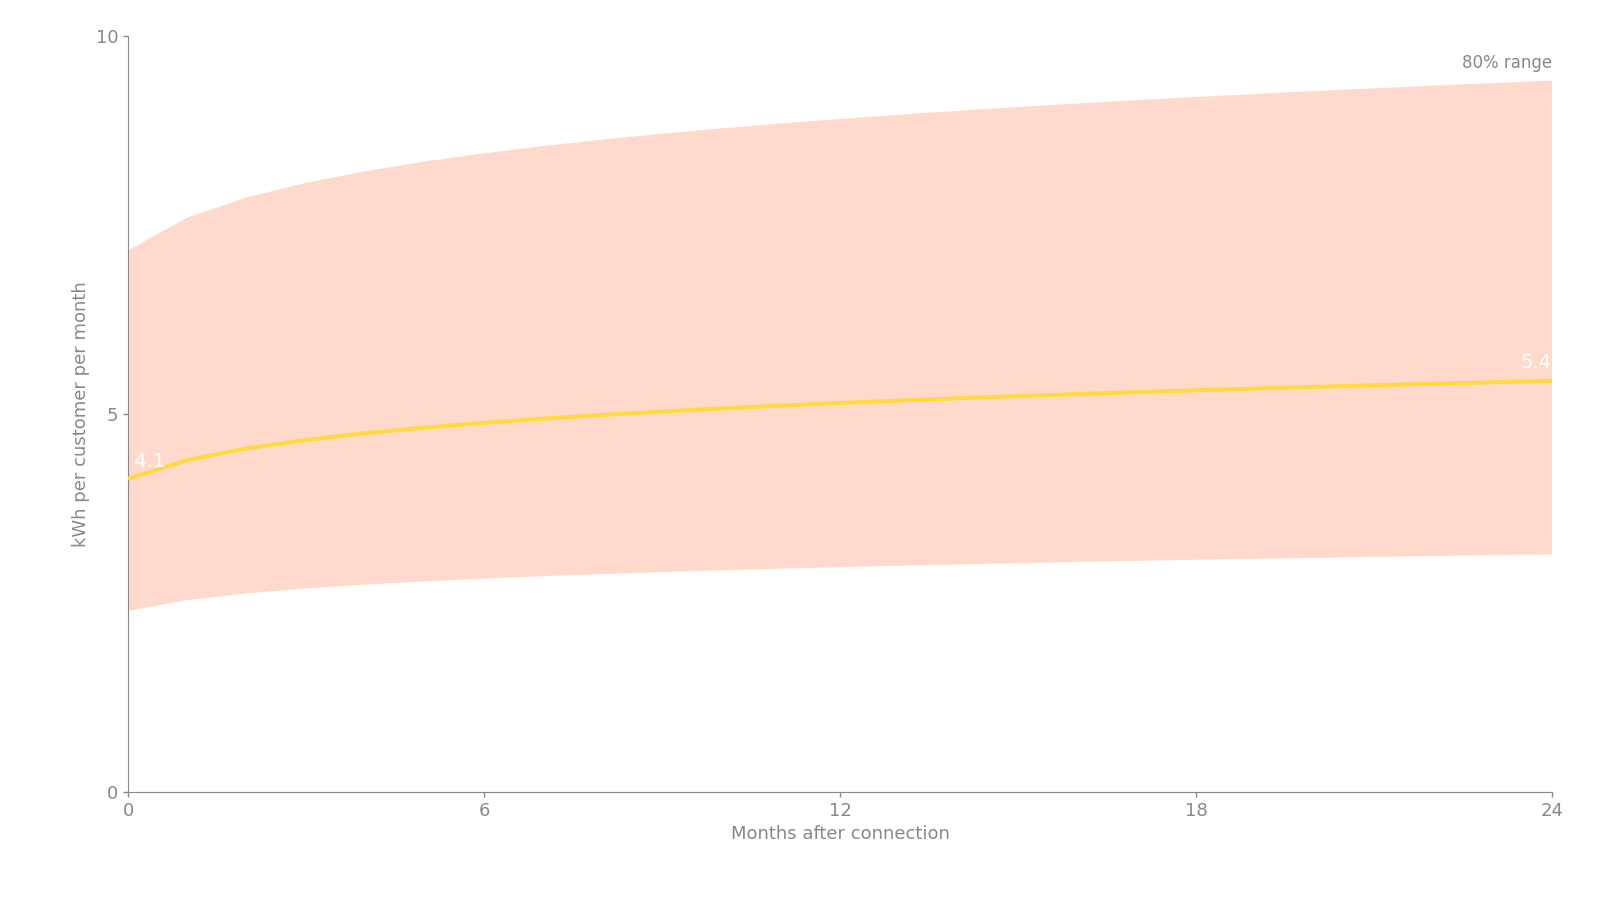
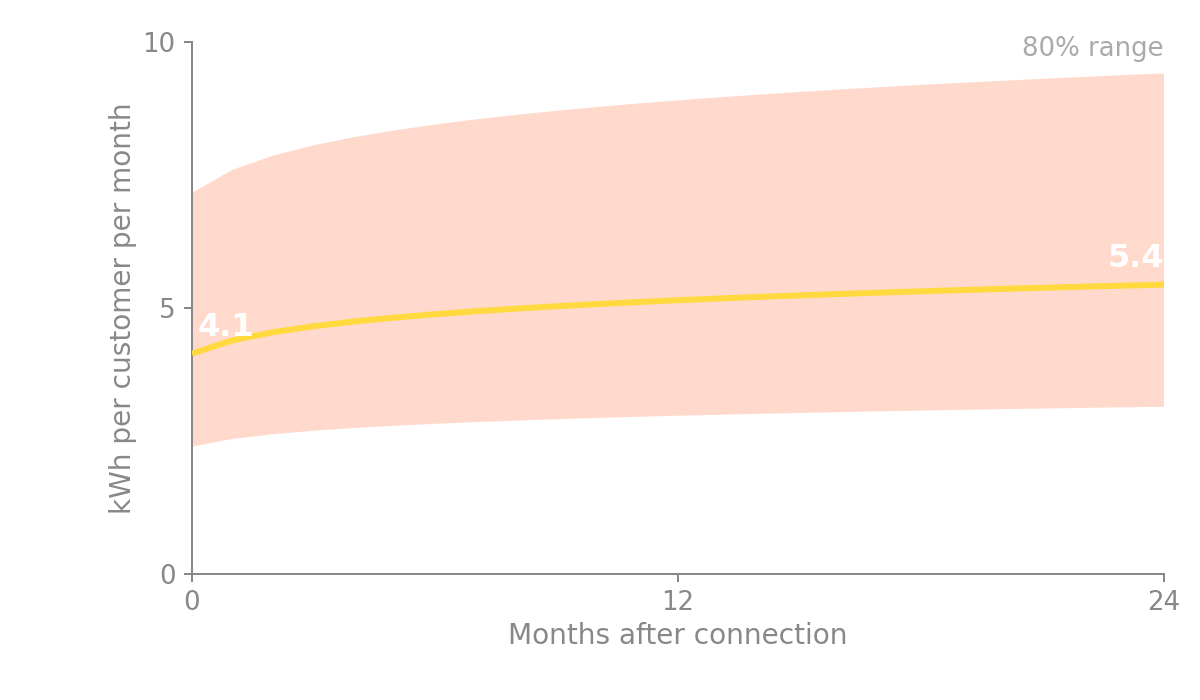
deck: larger chart labels

diff --git a/scripts/plot_growth_deck.py b/scripts/plot_growth_deck.py
@@ -16,9 +16,13 @@ from pawacast.model.growth import observed_curve
 
 ROOT = Path(__file__).resolve().parents[1]
 OUT = ROOT / "results"
-SUN, FLARE, MUTED = "#FFD93D", "#FF6B35", "#888888"
-W, H, DPI = 1600, 900, 100
+SUN, FLARE, MUTED, RANGE = "#FFD93D", "#FF6B35", "#888888", "#AAAAAA"
+W, H, DPI = 1200, 700, 100
 PX_TO_PT = 72.0 / DPI
+
+
+def px(n: float) -> float:
+    return n * PX_TO_PT
 
 
 def main():
@@ -29,7 +33,7 @@ def main():
     p50_24 = float(curve.loc[curve.month == 24, "p50"].iloc[0])
     p90_24 = float(curve.loc[curve.month == 24, "p90"].iloc[0])
 
-    plt.rcParams.update({"font.family": "sans-serif", "font.size": 13})
+    plt.rcParams.update({"font.family": "sans-serif", "font.size": px(26)})
     fig, ax = plt.subplots(figsize=(W / DPI, H / DPI), dpi=DPI)
     fig.patch.set_alpha(0.0)
     ax.set_facecolor("none")
@@ -38,42 +42,43 @@ def main():
         curve.month, curve.p10, curve.p90,
         color=FLARE, alpha=0.25, linewidth=0, edgecolor="none", zorder=2,
     )
-    ax.plot(curve.month, curve.p50, color=SUN, lw=4 * PX_TO_PT, solid_capstyle="butt", zorder=3)
+    ax.plot(curve.month, curve.p50, color=SUN, lw=px(6), solid_capstyle="butt", zorder=3)
 
     ax.annotate(
-        f" {p50_0:.1f}", xy=(0, p50_0), xytext=(0, 6),
-        textcoords="offset points", color="#FFFFFF", fontsize=14,
-        ha="left", va="bottom", fontfamily="sans-serif", zorder=4,
+        f"{p50_0:.1f}", xy=(0, p50_0), xytext=(4, 8),
+        textcoords="offset points", color="#FFFFFF", fontsize=px(32),
+        fontweight="bold", ha="left", va="bottom", fontfamily="sans-serif", zorder=4,
     )
     ax.annotate(
-        f"{p50_24:.1f}", xy=(24, p50_24), xytext=(0, 6),
-        textcoords="offset points", color="#FFFFFF", fontsize=14,
-        ha="right", va="bottom", fontfamily="sans-serif", zorder=4,
+        f"{p50_24:.1f}", xy=(24, p50_24), xytext=(0, 8),
+        textcoords="offset points", color="#FFFFFF", fontsize=px(32),
+        fontweight="bold", ha="right", va="bottom", fontfamily="sans-serif", zorder=4,
     )
     ax.annotate(
-        "80% range", xy=(24, p90_24), xytext=(0, 6),
-        textcoords="offset points", color=MUTED, fontsize=12,
+        "80% range", xy=(24, p90_24), xytext=(0, 8),
+        textcoords="offset points", color=RANGE, fontsize=px(26),
         ha="right", va="bottom", fontfamily="sans-serif", zorder=4,
     )
 
     ax.set_xlim(0, 24)
     ax.set_ylim(0, 10)
-    ax.set_xticks([0, 6, 12, 18, 24])
+    ax.set_xticks([0, 12, 24])
     ax.set_yticks([0, 5, 10])
-    ax.set_xlabel("Months after connection", color=MUTED, fontsize=13, fontfamily="sans-serif")
-    ax.set_ylabel("kWh per customer per month", color=MUTED, fontsize=13, fontfamily="sans-serif")
-    ax.tick_params(colors=MUTED, labelsize=13, width=1)
+    ax.set_xlabel("Months after connection", color=MUTED, fontsize=px(28), fontfamily="sans-serif")
+    ax.set_ylabel("kWh per customer per month", color=MUTED, fontsize=px(28), fontfamily="sans-serif")
+    ax.tick_params(colors=MUTED, labelsize=px(26), width=px(2), length=px(8), pad=6)
     for lab in ax.get_xticklabels() + ax.get_yticklabels():
         lab.set_fontfamily("sans-serif")
-        lab.set_fontsize(13)
+        lab.set_fontsize(px(26))
         lab.set_color(MUTED)
     ax.grid(False)
     for sp in ("top", "right"):
         ax.spines[sp].set_visible(False)
     for sp in ("left", "bottom"):
         ax.spines[sp].set_color(MUTED)
+        ax.spines[sp].set_linewidth(px(2))
 
-    fig.subplots_adjust(left=0.08, right=0.97, bottom=0.12, top=0.96)
+    fig.subplots_adjust(left=0.16, right=0.97, bottom=0.18, top=0.94)
     path = OUT / "growth_curve_deck_dark.png"
     fig.savefig(path, dpi=DPI, transparent=True, facecolor="none")
     plt.close(fig)

diff --git a/CHANGELOG.md b/CHANGELOG.md
@@ -78,3 +78,4 @@ Times are ET. The line between pre-sprint and sprint work is the git tag `geh202
 - Forecast copy: 80% range on the answer card, plain-language How tested / cost / sharing demo, permanent map labels on the three demo sites.
 - Deck growth card `results/growth_curve_deck_dark.png`: fitted P50 + P10–P90 only (no site lines, no month-12 marker). Frozen slope unchanged.
 - Growth caption: “About 24% growth in year 1, then ~6% a year”. Frozen slope unchanged.
+- Deck chart `results/growth_curve_deck_dark.png` redrawn 1200×700 with larger labels for slide use. Same fitted numbers.
